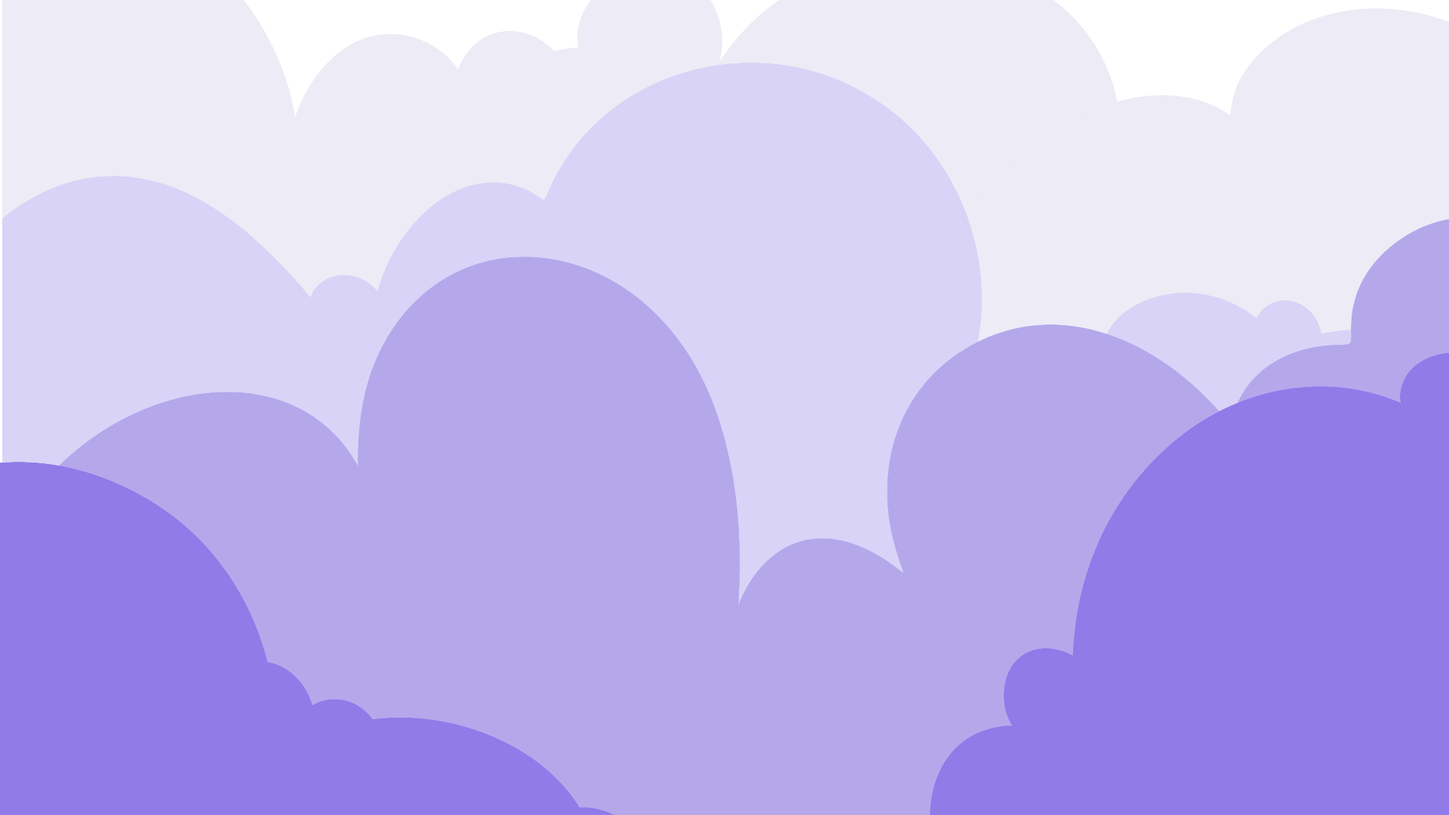
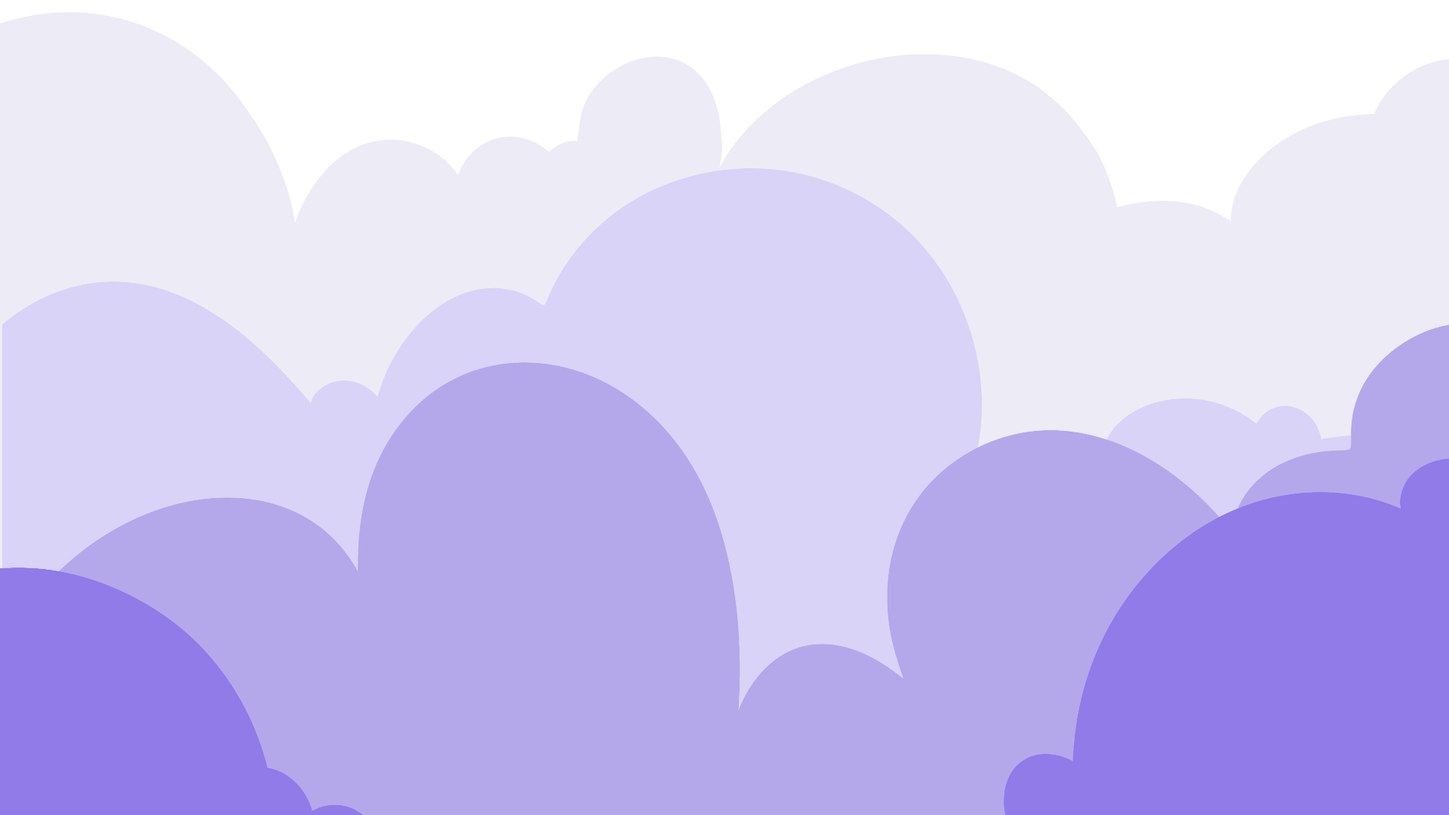
responsive version of the website

Changed region(s): [[0.0, 0.275, 1.0, 1.0], [0.4688, 0.0611, 0.5625, 0.1833]]

diff --git a/src/pages/myResume/myResume.jsx b/src/pages/myResume/myResume.jsx
@@ -9,40 +9,52 @@ import CloudInfront from '../../assets/img/CloudInfront.PNG';
 const Resume = () => {
   return(
     <>
-      <div className="bg-dark-blue-violet w-full h-full flex flex-col gap-10 ">
+      <div className="bg-dark-blue-violet flex flex-col gap-10">
 
-        <div className="mt-[5em] flex justify-center w-full">
-          <div className="relative h-[25rem]">
-            <div className="w-[80rem] h-[24rem] bg-white border-black border-4 relative rounded-lg z-10 overflow-clip flex items-center">
-              <img src={CloudSimpleBG} className="w-[110%] max-w-[200%] absolute top-[0.005rem] z-0 object-cover overflow-hidden animate-[cloud_3000ms_ease-in-out_infinite]" alt="background with clouds"/>
-              <img src={CloudInfront} className="w-[110%] max-w-[200%] absolute bottom-[-5rem] z-0 object-cover overflow-hidden animate-[cloudReverse_3000ms_ease-in-out_infinite]" alt="Clouds in the front line" />
-              <div className="flex gap-[6rem] px-[4rem] items-center justify-between">
-              <div className="flex flex-col gap-4 z-20">
-                <h2 className="text-dark-blue-violet text-[64px]">Tifenn LAMURE</h2>
-                <div className="w-[55rem] text-[22px]">Front developer specialized in animations and UX/UI designs thanks to my degree in art. I am seeking remote jobs opportunities worldwide.  So if you want a developer doing pretty and design website, I am the person you need!</div>
-              </div>
+        <div className="flex flex-col justify-center items-center max-w-[1280px] mx-auto">
+
+
+        <div className="mt-[2em] lg:mt-[5em] flex justify-center w-full mb-8">
+          <div className="relative">
+            <div className="lg:w-[95%] lg:h-[25rem] bg-white mx-4 border-black border-4 relative rounded-lg z-10 overflow-clip flex items-center">
+              <div className="absolute w-full h-full bg-white z-10 opacity-[.3]"></div>
+              <img src={CloudSimpleBG} className="w-[110%] max-w-[110%] absolute bottom-0 z-0 object-cover overflow-hidden animate-[cloud_3000ms_ease-in-out_infinite]" alt="background with clouds"/>
+              <img src={CloudInfront} className="w-[110%] max-w-[110%] absolute bottom-0 z-0 object-cover overflow-hidden animate-[cloudReverse_3000ms_ease-in-out_infinite]" alt="Clouds in the front line" />
+              <div className="lg:h-[30em] flex gap-[6rem] px-[1rem] xsm:px-[4rem] items-center justify-between">
+                <div className="flex flex-col gap-4 z-20 mt-4 xsm:mt-0">
+                  <h2 className="text-dark-blue-violet text-[32px] xsm:text-[64px]">Tifenn LAMURE</h2>
+                  <div className="text-[14px] xsm:text-[22px] lg:w-[70%]">Front developer specialized in animations and UX/UI designs thanks to my degree in art. I am seeking remote jobs opportunities worldwide.  So if you want a developer doing pretty and design website, I am the person you need!</div>
+                  <div className="flex justify-center">
+                    <img src={TifennResume} className="w-32 overflow-visible z-50 xsm:w-48 lg:hidden" alt="drawing of me"/>
+                  </div>
+                </div>
               </div>
             </div>
-            <img src={TifennResume} className="h-[28rem] relative overflow-visible z-50 absolute bottom-[28.25rem] left-[57rem]" alt="drawing of me"/>
-            <div className="h-[24rem] bg-light-violet w-[80rem] bg-dark-violet border-black border-4 absolute rounded-lg top-4 left-4 z-0"></div>
+            <img src={TifennResume} className="overflow-visible w-72 z-50 absolute hidden lg:block bottom-[0.2rem] right-[4rem]" alt="drawing of me"/>
+            <div className="hidden xsm:block w-[95%] h-full bg-light-violet bg-dark-violet border-black border-b-4 border-l-4 xsm:border-4 absolute rounded-bl-lg xsm:rounded-lg bottom-[-1em] xsm:left-8 z-0"></div>
           </div>
         </div>
 
-        <div className="flex flex-rows justify-center gap-[6rem] w-full">
-          <div className="relative">
+        <div className="flex flex-col lg:flex-row w-full gap-16 lg:justify-between lg:px-8">
+          <div className="relative hidden lg:block">
             <div className="w-full h-[30rem] bg-white border-black border-4 relative rounded-lg z-10 flex flex-col items-center overflow-hidden">
               <div className="w-full border-b-4 text-2xl bg-very-light-violet border-black pl-6 text-dark-violet">Github</div>
-              <div className="overflow-hidden h-full w-[31rem] max-h-[95%] flex justify-center items-center">
+              <div className="overflow-hidden h-full max-h-[95%] flex justify-center items-center">
                 <img className="w-full max-w-[27rem] max-h-[27rem] aspect-square" src={QrcodePic} alt="the QR code link to my Linkedin"/>
               </div>
             </div>
             <div className="h-[30rem] bg-light-violet w-[100%] bg-dark-violet border-black border-4 absolute rounded-lg top-4 left-4 z-0"></div>
           </div>
 
-          <div className="flex flex-col justify-between gap-[1rem]">
+          <a href="https://linktr.ee/tifenn_lamure" without rel="noopener noreferrer" target="_blank" className="relative mx-auto lg:hidden">
+            <div className="bg-dark-violet h-16 w-48 xsm:w-80 flex items-center justify-center rounded-lg border-4 border-black absolute z-10 xsm:m-10 bottom-2 right-2 text-[24px] xsm:text-3xl text-white font-light hover:bottom-0 hover:right-0">My Linktree</div>
+            <div className="bg-white h-16 w-48 xsm:w-80 flex items-center justify-center rounded-lg border-4 border-black z-0 xsm:m-10"></div>
+          </a>
+
+          <div className="flex flex-col items-center justify-between gap-[1rem]">
             <SkillBtn 
             SkillBtnText="HTML"
-            textSize="text-3xl"
+            textSize="text-xl xsm:text-3xl"
             BtnWidth="w-[15rem]"
             BtnHeight="h-[3.5rem]"
             BtnColorBack="bg-very-light-violet" 
@@ -50,7 +62,7 @@ const Resume = () => {
             />
             <SkillBtn 
             SkillBtnText="CSS/SCSS" 
-            textSize="text-3xl"
+            textSize="text-xl xsm:text-3xl"
             BtnWidth="w-[15rem]"
             BtnHeight="h-[3.5rem]"
             BtnColorBack="bg-[#B7B7F0]" 
@@ -58,7 +70,7 @@ const Resume = () => {
             />
             <SkillBtn 
             SkillBtnText="JAVASCRIPT"
-            textSize="text-3xl" 
+            textSize="text-xl xsm:text-3xl" 
             BtnWidth="w-[15rem]"
             BtnHeight="h-[3.5rem]"
             BtnColorBack="bg-[#6E6EBC]" 
@@ -66,7 +78,7 @@ const Resume = () => {
             />
             <SkillBtn 
             SkillBtnText="REACT"
-            textSize="text-3xl"
+            textSize="text-xl xsm:text-3xl"
             BtnWidth="w-[15rem]"
             BtnHeight="h-[3.5rem]" 
             SkillBtnTextColor="text-black" 
@@ -75,7 +87,7 @@ const Resume = () => {
             />
             <SkillBtn 
             SkillBtnText="REDUX"
-            textSize="text-3xl" 
+            textSize="text-xl xsm:text-3xl" 
             BtnWidth="w-[15rem]"
             BtnHeight="h-[3.5rem]"
             SkillBtnTextColor="text-black" 
@@ -84,7 +96,7 @@ const Resume = () => {
             />
             <SkillBtn 
             SkillBtnText="ADOBE/FIGMA"
-            textSize="text-3xl"
+            textSize="text-xl xsm:text-3xl"
             BtnWidth="w-[15rem]"
             BtnHeight="h-[3.5rem]" 
             SkillBtnTextColor="text-black" 
@@ -93,45 +105,52 @@ const Resume = () => {
             />
           </div>
 
-          <div className="flex flex-col justify-between">
+          <div className="flex flex-col justify-between gap-4">
 
-            <div className="flex gap-4 justify-between">
+            <div className="flex gap-4 justify-between mx-auto">
               <div className="relative">
-                <div className="text-center w-[10rem] h-[10rem] text-[#2C32BE] bg-very-light-violet rounded-lg border-black border-4 relative z-10 flex flex-col items-center justify-center">
-                  <div className="text-[70px] font-['Parisienne']">Fr</div>
+                <div className="text-center w-[7rem] h-[7rem] text-[#2C32BE] bg-very-light-violet rounded-lg border-black border-4 relative z-10 flex flex-col items-center justify-center">
+                  <div className="text-[35px] xsm:text-[50px] md:text-[70px] font-['Parisienne']">Fr</div>
                   <div className="text-[20px]">Native</div>
                 </div>
-                <div className="w-[10rem] h-[10rem] bg-very-light-violet rounded-lg border-black border-4 absolute z-0 top-2 left-2 text-2xl text-transparent"></div>
+                <div className="w-[7rem] h-[7rem] bg-very-light-violet rounded-lg border-black border-4 absolute z-0 top-2 left-2 text-2xl text-transparent"></div>
               </div>
               <div className="relative">
-                <div className="text-center w-[10rem] h-[10rem] text-[#2C32BE] bg-very-light-violet rounded-lg border-black border-4 relative z-10 flex flex-col items-center justify-center">
-                  <div className="text-[70px] font-['Parisienne']">En</div>
+                <div className="text-center w-[7rem] h-[7rem] text-[#2C32BE] bg-very-light-violet rounded-lg border-black border-4 relative z-10 flex flex-col items-center justify-center">
+                  <div className="text-[35px] xsm:text-[50px] md:text-[70px] font-['Parisienne']">En</div>
                   <div className="text-[20px]">Fluent</div>
                 </div>
-                <div className="w-[10rem] h-[10rem] bg-very-light-violet rounded-lg border-black border-4 absolute z-0 top-2 left-2 text-2xl text-transparent"></div>
+                <div className="w-[7rem] h-[7rem] bg-very-light-violet rounded-lg border-black border-4 absolute z-0 top-2 left-2 text-2xl text-transparent"></div>
               </div>
             </div>
 
-            <div className="relative">
-              <div className="text-center w-[21rem] h-[5rem] text-black text-2xl bg-white rounded-lg border-black border-4 relative z-10 flex flex-col items-center justify-center">Bachelor Animation 2D - Bellecour Ecole</div>
-              <div className="w-[21rem] h-[5rem] bg-light-violet rounded-lg border-black border-4 absolute z-0 top-2 left-2 text-2xl text-transparent"></div>
+            <div className="relative mx-auto">
+              <div className="text-center w-[15rem] md:w-[21rem] h-[5rem] text-black text-2xl bg-white rounded-lg border-black border-4 relative z-10 flex flex-col items-center justify-center">Bachelor Animation 2D - Bellecour Ecole</div>
+              <div className="w-[15rem] md:w-[21rem] h-[5rem] bg-light-violet rounded-lg border-black border-4 absolute z-0 top-2 left-2 text-2xl text-transparent"></div>
             </div>
-            <div className="relative">
-              <div className="text-center w-[21rem] h-[5rem] text-black text-2xl bg-white rounded-lg border-black border-4 relative z-10 flex flex-col items-center justify-center">Intégrateur Web - OpenClassrooms</div>
-              <div className="w-[21rem] h-[5rem] bg-light-violet rounded-lg border-black border-4 absolute z-0 top-2 left-2 text-2xl text-transparent"></div>
+            <div className="relative mx-auto">
+              <div className="text-center w-[15rem] md:w-[21rem] h-[5rem] text-black text-2xl bg-white rounded-lg border-black border-4 relative z-10 flex flex-col items-center justify-center">Intégrateur Web - OpenClassrooms</div>
+              <div className="w-[15rem] md:w-[21rem] h-[5rem] bg-light-violet rounded-lg border-black border-4 absolute z-0 top-2 left-2 text-2xl text-transparent"></div>
             </div>
-            <div className="relative">
-              <div className="text-center w-[21rem] h-[5rem] text-black text-2xl bg-white rounded-lg border-black border-4 relative z-10 flex flex-col items-center justify-center">Hôtesse d'accueil - <br />La Poste</div>
-              <div className="w-[21rem] h-[5rem] bg-light-violet rounded-lg border-black border-4 absolute z-0 top-2 left-2 text-2xl text-transparent"></div>
+            <div className="relative mx-auto">
+              <div className="text-center w-[15rem] md:w-[21rem] h-[5rem] text-black text-2xl bg-white rounded-lg border-black border-4 relative z-10 flex flex-col items-center justify-center">Hôtesse d'accueil - <br />La Poste</div>
+              <div className="w-[15rem] md:w-[21rem] h-[5rem] bg-light-violet rounded-lg border-black border-4 absolute z-0 top-2 left-2 text-2xl text-transparent"></div>
             </div>
 
           </div>
         </div>
 
-        <a href={CvPdf} without rel="noopener noreferrer" target="_blank" className="relative mx-auto mt-[3rem] mb-8 w-80">
-          <div className="bg-dark-violet h-16 w-80 flex items-center justify-center rounded-lg border-4 border-black absolute z-10 bottom-2 left-0 text-3xl text-white font-light hover:bottom-0 hover:left-2 hover:cursor-pointer">Resume</div>
-          <div className="bg-white h-16 w-80 flex items-center relative left-2 justify-center rounded-lg border-4 border-black z-0"></div>
+        <a href={CvPdf} without rel="noopener noreferrer" target="_blank" className="relative mx-auto mt-[3rem] mb-8">
+          <div className="bg-dark-violet h-16 w-36 xsm:w-80 flex items-center justify-center rounded-lg border-4 border-black absolute z-10 bottom-2 left-0 text-xl xsm:text-3xl text-white font-light hover:bottom-0 hover:left-2 hover:cursor-pointer">Resume</div>
+          <div className="bg-white h-16 w-36 xsm:w-80 flex items-center relative left-2 justify-center rounded-lg border-4 border-black z-0"></div>
         </a>
+
+
+
+
+        </div>
+
+        
         
       </div>
     </>

diff --git a/src/components/CardProjects/CardProjects.jsx b/src/components/CardProjects/CardProjects.jsx
@@ -6,33 +6,33 @@ function CardProjects ({ImgProjectSrc, AltImgProjectSrc, TextProject, LinkProjec
   const [isViewMore, setViewMore] = useState(false)
 
   return (
-    <div className={`relative ${IsAtLeft ? 'mr-8 ' : 'ml-8 '}`}>
-      <div className={`h-[24rem] bg-light-violet p-4 border-black border-y-4 relative z-10 flex gap-10 items-center ${IsAtLeft ? 'border-r-4 rounded-r-lg' : 'border-l-4 rounded-l-lg flex-row-reverse'}`}>
+    <div className={`relative ${IsAtLeft ? 'mr-4 xsm:mr-8 ' : 'ml-4 xsm:ml-8 '}`}>
+      <div className={`h-[12rem] xsm:h-[24rem] bg-light-violet p-1 xsm:p-4 border-black border-y-4 relative z-10 flex gap-2 xsm:gap-10 items-center ${IsAtLeft ? 'border-r-4 rounded-r-lg' : 'border-l-4 rounded-l-lg flex-row-reverse'}`}>
           <img src={ImgProjectSrc} alt={AltImgProjectSrc} className="h-[90%] w-[50%] object-cover border-black border-2 rounded-lg" />
-          <div className="flex flex-col gap-[1rem] items-center w-[50%]">
-            <div className="text-[24px] text-center text-white">{TextProject}</div>
-            {!isViewMore ?
-              <div className="h-[48px] flex flex-col align-center justify-center">
-                <button className="text-2xl text-center w-48 bg-very-light-violet rounded-lg border-black border-4 relative z-10 hover:text-3xl hover:h-12 hover:w-52" onClick={() => setViewMore(true)}>View More</button>
+          <div className="flex flex-col gap-[.3rem] xsm:gap-[1rem] items-center w-[50%]">
+          {!isViewMore ?
+            <>
+              <div className="text-[12px] xsm:text-[18px] md:text-[24px] text-center text-white leading-[1rem] xsm:leading-normal">{TextProject}</div>
+              <div className="flex flex-col align-center justify-center">
+                <button className="text-[12px] xsm:text-2xl text-center w-24 xsm:w-48 bg-very-light-violet rounded-lg border-black border-2 relative z-10 hover:text-3xl hover:h-12 hover:w-52" onClick={() => setViewMore(true)}>More Details</button>
               </div>
+            </>
             :
             <div className="flex flex-col items-center justify-center">
               <div className="grid grid-cols-2 grid-rows-2 gap-[1rem] items-center">
               {SkillTab.map((SkillTab) => (
-                <SkillBtn BtnWidth="w-40" key={SkillTab.id} BtnHeight="h-[2rem]" SkillBtnText={SkillTab} textSize="text-[18px]" BtnColorBack="bg-very-light-violet" BtnColorFront="bg-dark-violet" className="w-48"/>
+                <SkillBtn BtnWidth="w-[3.5rem] xsm:w-32" key={SkillTab.id} BtnHeight="h-[2rem]" SkillBtnText={SkillTab} textSize="text-[10px] xsm:text-[18px]" BtnColorBack="bg-very-light-violet" BtnColorFront="bg-dark-violet" className="w-48"/>
               ))}
               </div>
-              <div className="flex flex-col items-center justify-center mt-[2rem]">
-              <a href={LinkProject} target="_blank" without rel="noopener noreferrer" className="text-[24px] text-white pb-[1.5rem] hover:underline">Click for my repositories</a>
-                <div className="h-[48px]">
-                  <button className="text-center text-2xl text-center w-48 bg-very-light-violet rounded-lg border-black border-4 relative z-10 hover:text-lg hover:h-8 hover:w-44 hover:leading-6" onClick={() => setViewMore(false)}>View Less</button>
-                </div>
+              <div className="flex flex-col items-center justify-center mt-[1rem]">
+                <a href={LinkProject} target="_blank" without rel="noopener noreferrer" className="text-center text-[12px] xsm:text-[18px] md:text-[24px] text-white pb-[.5rem] hover:underline">Click for my repositories</a>
+                <button className="text-center text-[12px] xsm:text-2xl text-center w-24 xsm:w-48 bg-very-light-violet rounded-lg border-black border-2 relative z-10 hover:text-lg hover:h-8 hover:w-44 hover:leading-6" onClick={() => setViewMore(false)}>Less Details</button>
               </div>
             </div>
             }
           </div>
       </div>
-      <div className={`h-[24rem] w-[98%] bg-dark-violet border-black border-y-4 absolute top-4 z-0 ${IsAtLeft ? 'border-r-4 rounded-r-lg' : 'border-l-4 rounded-l-lg right-0'}`}></div>
+      <div className={`h-[12rem] xsm:h-[24rem] w-[98%] bg-dark-violet border-black border-y-4 absolute top-4 z-0 ${IsAtLeft ? 'border-r-4 rounded-r-lg' : 'border-l-4 rounded-l-lg right-0'}`}></div>
     </div>
   )
 };

diff --git a/src/pages/home/home.jsx b/src/pages/home/home.jsx
@@ -6,22 +6,23 @@ import CloudBg from "./../../assets/img/CloudBG.webp";
 const Home = () => {
   return(
     <>
-      <div className="h-[100vh] bg-light-violet flex items-center justify-around relative">
-        <img src={CloudBg} alt="drawing of the sky with clouds" className="w-full h-[100vh] absolute z-0 object-fill" />
-        <div className="h-[100vh] w-full bg-black z-[5] absolute mix-blend-multiply opacity-[72%]"></div>
-        <div className="flex flex-col items-center z-20">
-          <h1 className="text-7xl text-white">Tifenn LAMURE</h1>
-          <h2 className="text-5xl text-white">Front-end developer</h2>
-          <div className="relative mt-20">
-            <Link to={`/resume`} className="bg-dark-violet h-16 w-80 flex items-center justify-center rounded-lg border-4 border-black absolute z-10 m-10 bottom-2 right-2 text-3xl text-white font-light hover:bottom-0 hover:right-0">All about me</Link>
-            <div className="bg-white h-16 w-80 flex items-center justify-center rounded-lg border-4 border-black z-0 m-10"></div>
+      <div className="xsm:h-[100vh] bg-light-violet flex items-center justify-around relative xsm:mb-0 overflow-hidden">
+        <img src={CloudBg} alt="drawing of the sky with clouds" className="w-full h-[100vh] absolute z-0 object-cover xsm:object-fill top-0"/>
+        <div className="h-[100vh] w-full bg-black z-[5] absolute mix-blend-multiply opacity-[72%] top-0"></div>
+        <div className="flex flex-col items-center z-20 gap-[1.5em] mb-[1rem] mt-8 xsm:mt-0 xsm:gap-0">
+          <h1 className="text-4xl text-center xsm:text-7xl text-white">Tifenn LAMURE</h1>
+          <h2 className="text-3xl text-center xsm:text-5xl text-white">Front-end developer</h2>
+          <img src={TifennDrawing} className="w-[80%] animate-[float_6s_infinite] z-40 xsm:hidden" alt="drawing of me"/>
+          <div className="relative mt-16 xsm:mt-20">
+            <Link to={`/resume`} className="bg-dark-violet h-16 w-48 xsm:w-80 flex items-center justify-center rounded-lg border-4 border-black absolute z-10 xsm:m-10 bottom-2 right-2 text-[24px] xsm:text-3xl text-white font-light hover:bottom-0 hover:right-0">All about me</Link>
+            <div className="bg-white h-16 w-48 xsm:w-80 flex items-center justify-center rounded-lg border-4 border-black z-0 xsm:m-10"></div>
           </div>
           <div className="relative">
-            <Link to={`/projects`} className="bg-dark-violet h-16 w-80 flex items-center justify-center rounded-lg border-4 border-black absolute z-10 bottom-2 right-2 text-3xl text-white font-light hover:bottom-0 hover:right-0">My projects</Link>
-            <div className="bg-white h-16 w-80 flex items-center justify-center rounded-lg border-4 border-black z-0"></div>
+            <Link to={`/projects`} className="bg-dark-violet h-16 w-48 xsm:w-80 flex items-center justify-center rounded-lg border-4 border-black absolute z-10 bottom-2 right-2 text-[24px] xsm:text-3xl text-white font-light hover:bottom-0 hover:right-0">My projects</Link>
+            <div className="bg-white h-16 w-48 xsm:w-80 flex items-center justify-center rounded-lg border-4 border-black z-0"></div>
           </div>
         </div>
-        <img src={TifennDrawing} className="w-[45%] animate-[float_6s_infinite] z-40" alt="drawing of me"/>
+        <img src={TifennDrawing} className="w-[45%] max-w-[45%] md:w-[100%] md:max-w-[100%] animate-[float_6s_infinite] z-40 hidden xsm:block" alt="drawing of me"/>
       </div>
     </>
   )

diff --git a/src/pages/myprojects/myprojects.jsx b/src/pages/myprojects/myprojects.jsx
@@ -7,28 +7,28 @@ import Kasa from "../../assets/img/Kasa.JPG";
 const MyProjects = () => {
   return(
     <>
-      <h2 className="text-light-violet text-[40px] ml-8 my-8">My projects</h2>
+      <h2 className="text-light-violet text-[20px] xsm:text-[40px] ml-6 xsm:ml-8 my-6 xsm:my-8">My projects</h2>
       <div className="flex flex-col mb-[5rem] gap-[3em]">
         <CardProjects 
           ImgProjectSrc={OhMyFood} 
           AltImgProjectSrc="my project Oh My Food" 
-          TextProject="OH MY FOOD - The aim of this project was to create an application that allows users to reserve and select their dishes ahead of time at prestigious restaurants. On arrival, everything will be ready to be served." 
+          TextProject="OH MY FOOD - An application that allows users to reserve and select their dishes ahead of time at prestigious restaurants. On arrival, everything will be ready to be served." 
           SkillTab={['SASS','CSS','HTML']}
           LinkProject="https://github.com/Tifenn-Lamure/Openclassrooms-OhMyFood" 
         />
         <CardProjects 
           ImgProjectSrc={PortfolioArchi} 
           AltImgProjectSrc="my project porfolio architect" 
-          TextProject="ARCHITECT'S PORTFOLIO - This website was created with the goal to create an architect's Portfolio. It was mostly to teach me vanilla JS."
-          SkillTab={['API REST', 'CSS', 'JAVASCRIPT']}
+          TextProject="ARCHITECT'S PORTFOLIO - An application which is an architect's Portfolio. It was mostly to teach me vanilla JS."
+          SkillTab={['API REST', 'CSS', 'JS']}
           LinkProject="https://github.com/Tifenn-Lamure/Portfolio-architecte"
           IsAtLeft={false}
         />
         <CardProjects 
           ImgProjectSrc={Kasa} 
           AltImgProjectSrc="my project Kasa" 
-          TextProject="KASA - It's a website for Appartment rental for holidays. The project was made in React."
-          SkillTab={['HTML', 'CSS', 'JAVASCRIPT', 'REACT']} 
+          TextProject="KASA - Appartment rental website for holidays. The project was made in React."
+          SkillTab={['HTML', 'CSS', 'JS', 'REACT']} 
           LinkProject="https://github.com/Tifenn-Lamure/Kasa"
         />
       </div>

diff --git a/src/components/footer/footer.jsx b/src/components/footer/footer.jsx
@@ -3,19 +3,19 @@ import React from "react";
 const Footer = () => {
   return(
     <>
-      <div className="w-full bg-dark-violet h-[100%] border-t-4 border-black font-[600] px-[2rem] py-[2rem] flex flex-row justify-between z-30">
+      <div className="bg-dark-violet border-t-4 border-black font-[600] px-6 xsm:px-10 py-[1.3rem] flex flex-col lg:flex-row gap-[1rem] justify-between z-30">
         <div>
-          <div className="text-[35px]">ADRESS</div> 
-          <div className="text-[28px]">29 rue Paul Déroulède,</div> 
-          <div className="text-[28px]">06000 Nice, FRANCE</div>
+          <div className="text-[20px] xsm:text-[35px]">ADRESS</div> 
+          <div className="text-[16px] xsm:text-[28px]">29 rue Paul Déroulède,</div> 
+          <div className="text-[16px] xsm:text-[28px]">06000 Nice, FRANCE</div>
         </div>
         <div>
-          <div className="text-[35px]">PHONE</div> 
-          <a href="tel:+33651164487" className="text-[28px] hover:text-very-light-violet" >{"(+33) 6.51.16.44.87"}</a> 
+          <div className="text-[20px] xsm:text-[35px]">PHONE</div> 
+          <a href="tel:+33651164487" className="text-[16px] xsm:text-[28px] hover:text-very-light-violet" >{"(+33) 6.51.16.44.87"}</a> 
         </div>
         <div>
-          <div className="text-[35px]">EMAIL</div> 
-          <a href="mailto:tifenn.lamure@hotmail.com" className="text-[28px] hover:text-very-light-violet">tifenn.lamure@hotmail.com</a>
+          <div className="text-[20px] xsm:text-[35px]">EMAIL</div> 
+          <a href="mailto:tifenn.lamure@hotmail.com" className="text-[16px] xsm:text-[28px] hover:text-very-light-violet">tifenn.lamure@hotmail.com</a>
         </div>
       </div>
     </>

diff --git a/src/components/SkillBtn/SkillBtn.jsx b/src/components/SkillBtn/SkillBtn.jsx
@@ -3,8 +3,8 @@ function SkillBtn ({BtnWidth = 'w-full', BtnHeight ='h-full', SkillBtnText, Skil
   return (
     <>
       <div className="relative">
-        <div className={`${textSize} text-center ${BtnWidth} ${BtnHeight} ${SkillBtnTextColor} ${BtnColorFront} rounded-lg border-black border-4 relative z-10 flex items-center justify-center`}>{SkillBtnText}</div>
-        <div className={`${BtnWidth} ${BtnHeight} ${BtnColorBack} rounded-lg border-black border-4 absolute z-0 top-2 left-2 text-2xl text-transparent`}>{SkillBtnText}</div>
+        <div className={`${textSize} text-center ${BtnWidth} ${BtnHeight} ${SkillBtnTextColor} ${BtnColorFront} rounded-lg border-black border-2 relative z-10 flex items-center justify-center`}>{SkillBtnText}</div>
+        <div className={`${BtnWidth} ${BtnHeight} ${BtnColorBack} rounded-lg border-black border-2 absolute z-0 top-1 left-1 text-2xl text-transparent`}>{SkillBtnText}</div>
       </div>
     </>
   )

diff --git a/src/components/header/header.jsx b/src/components/header/header.jsx
@@ -3,14 +3,14 @@ import React from "react";
 const Header =() =>{
   return(
     <>
-      <div className="main nav w-full bg-dark-violet flex h-[50px] border-b-4 px-10 border-black font-[600] flex-row gap-[3em] items-center z-30">
-        <Link className="text-[28px]" to={`/`}>
+      <div className="main nav xsm:w-full bg-dark-violet flex h-[50px] border-b-4 px-6 xsm:px-10 border-black font-[600] flex-row gap-[1em] xsm:gap-[3em] items-center z-30">
+        <Link className="text-[16px] xsm:text-[28px]" to={`/`}>
         HOME
         </Link>
-        <Link className="text-[28px] ml-[auto]" to={`/projects`}>
+        <Link className="text-[16px] xsm:text-[28px] ml-[auto]" to={`/projects`}>
         MY PROJECTS
         </Link>
-        <Link className="text-[28px]" to={`/resume`}>
+        <Link className="text-[16px] xsm:text-[28px]" to={`/resume`}>
         MY RESUME
         </Link>
       </div>

diff --git a/tailwind.config.js b/tailwind.config.js
@@ -4,6 +4,10 @@ module.exports = {
     "./src/**/*.{js,jsx,ts,tsx}"
   ],
   theme: {
+    screens: {
+      'xsm': '640px',
+      'lg': '1024px',
+    },
     extend: {
       colors: {
         'dark-violet': '#5E64F2',

diff --git a/src/index.css b/src/index.css
@@ -2,10 +2,6 @@
 @tailwind components;
 @tailwind utilities;
 
-html {
-  background-color: #5E64F2;
-}
-
 body {
   margin: 0;
   font-family: -apple-system, BlinkMacSystemFont, 'Segoe UI', 'Roboto', 'Oxygen',
